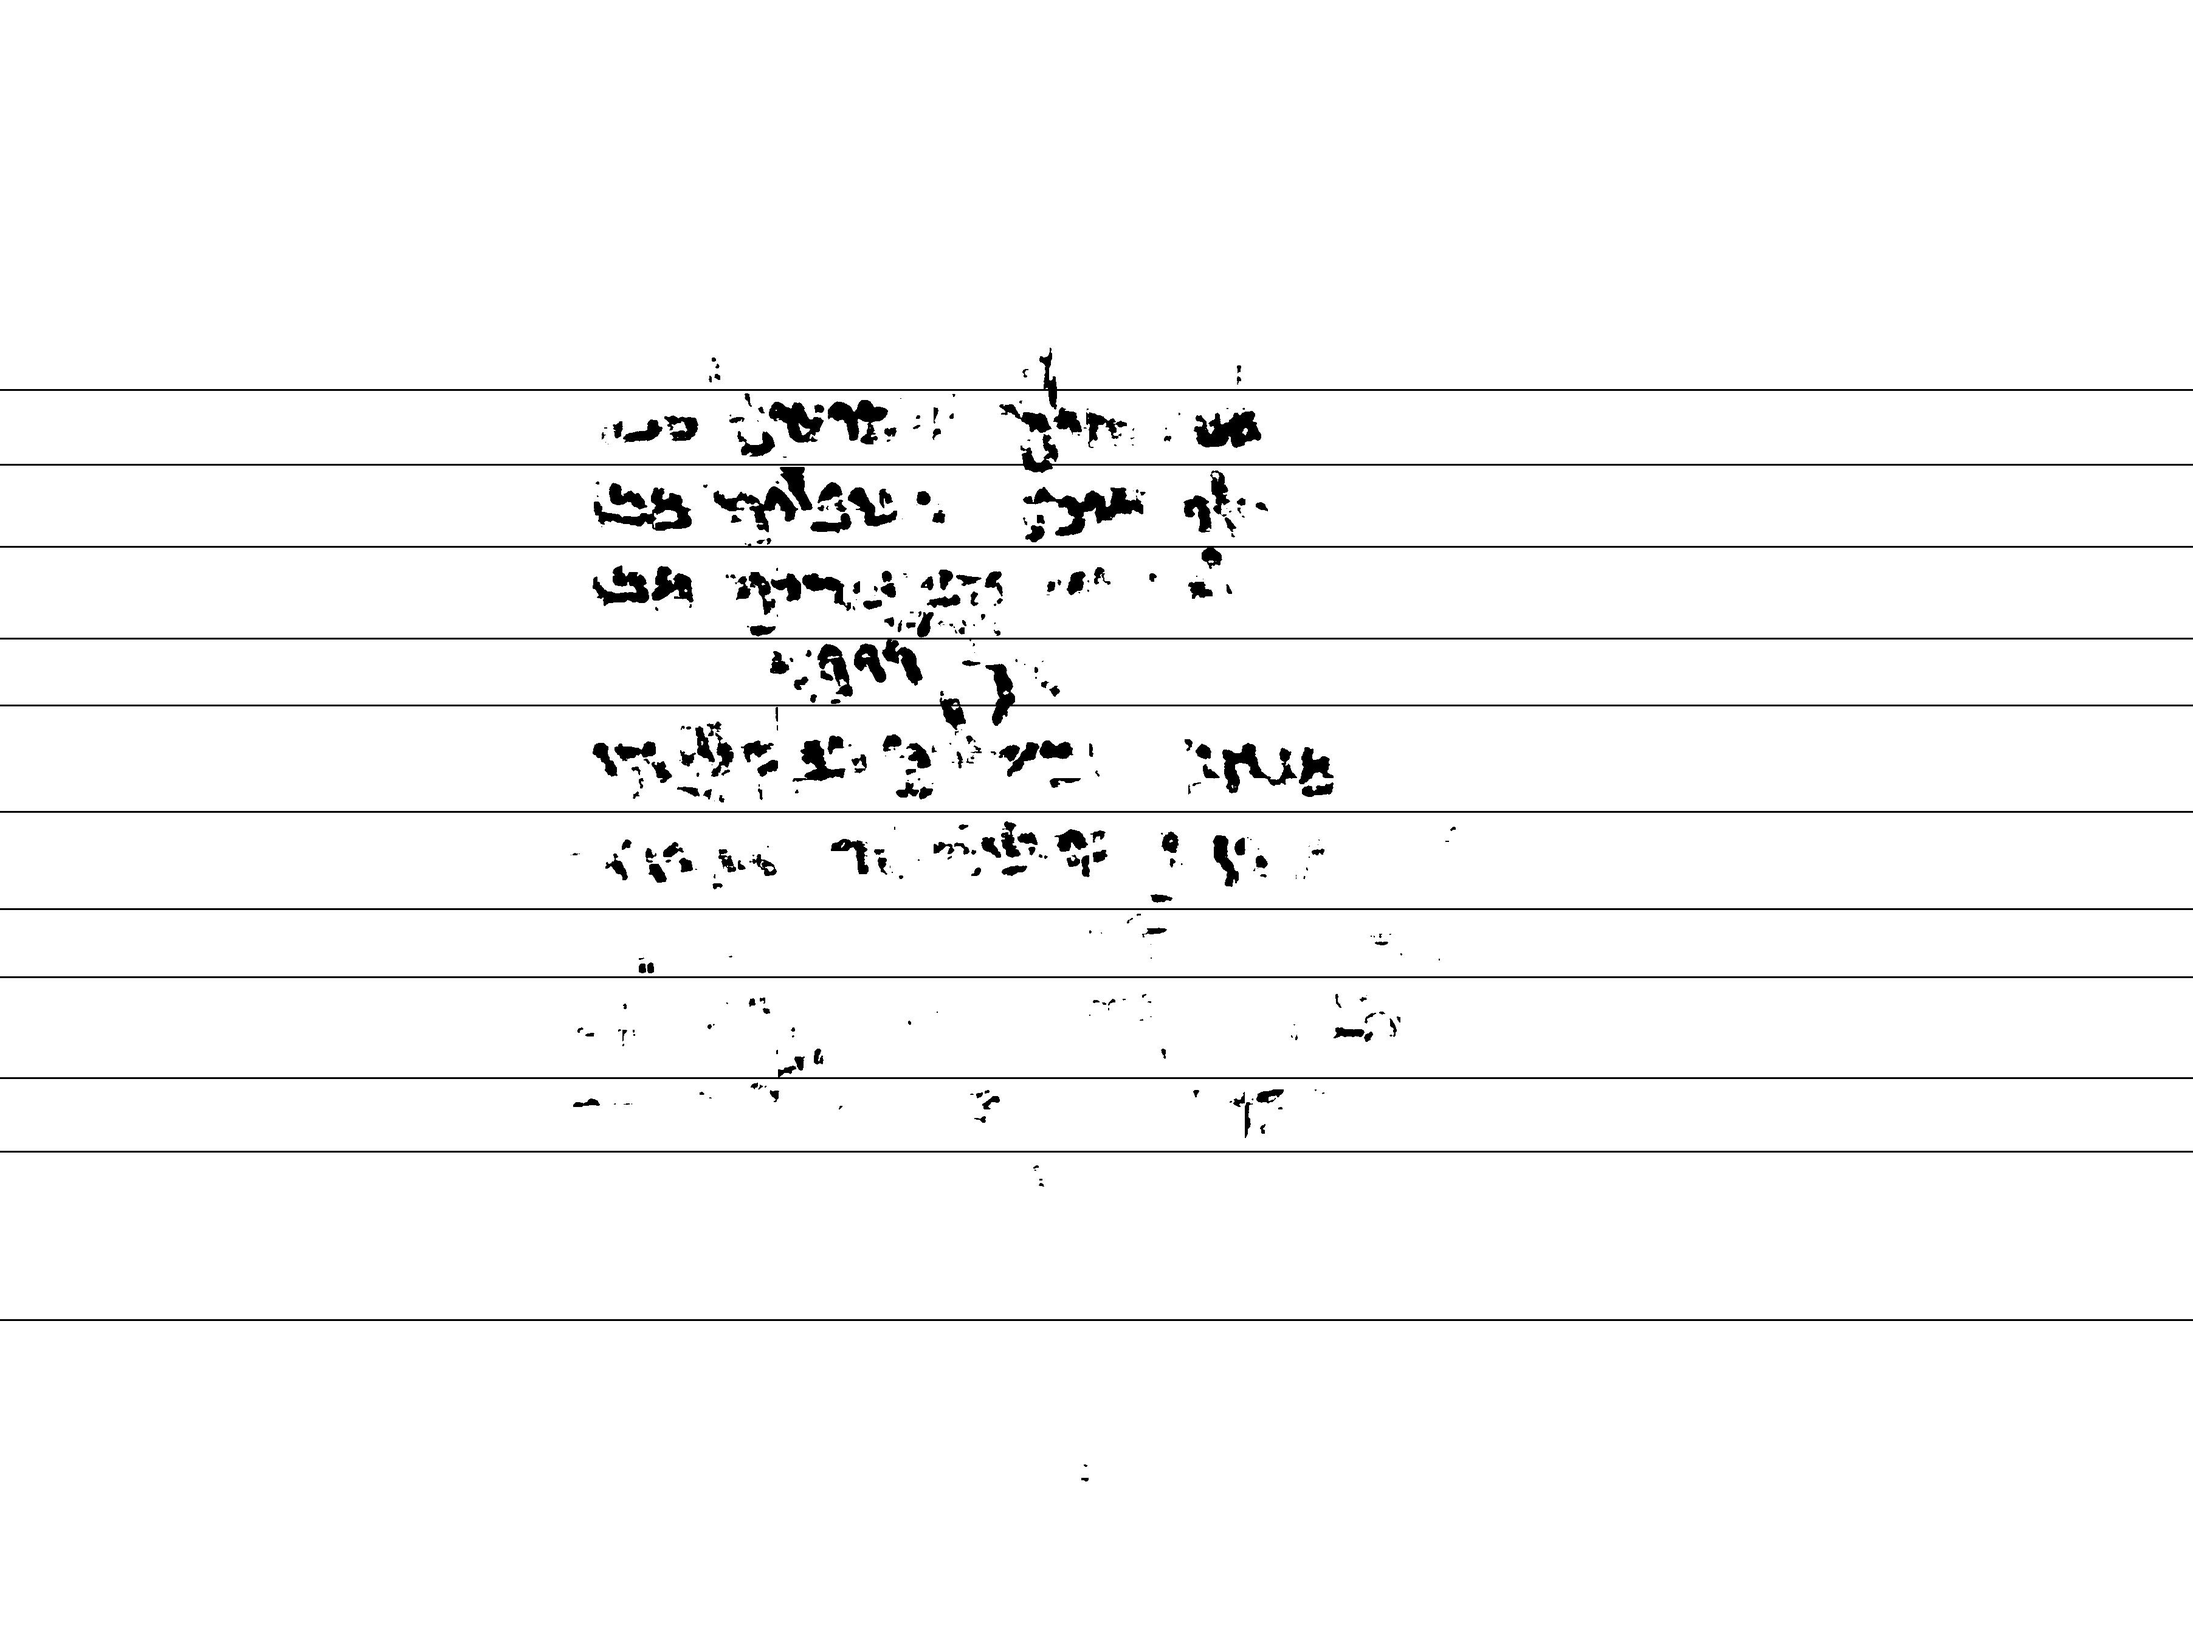
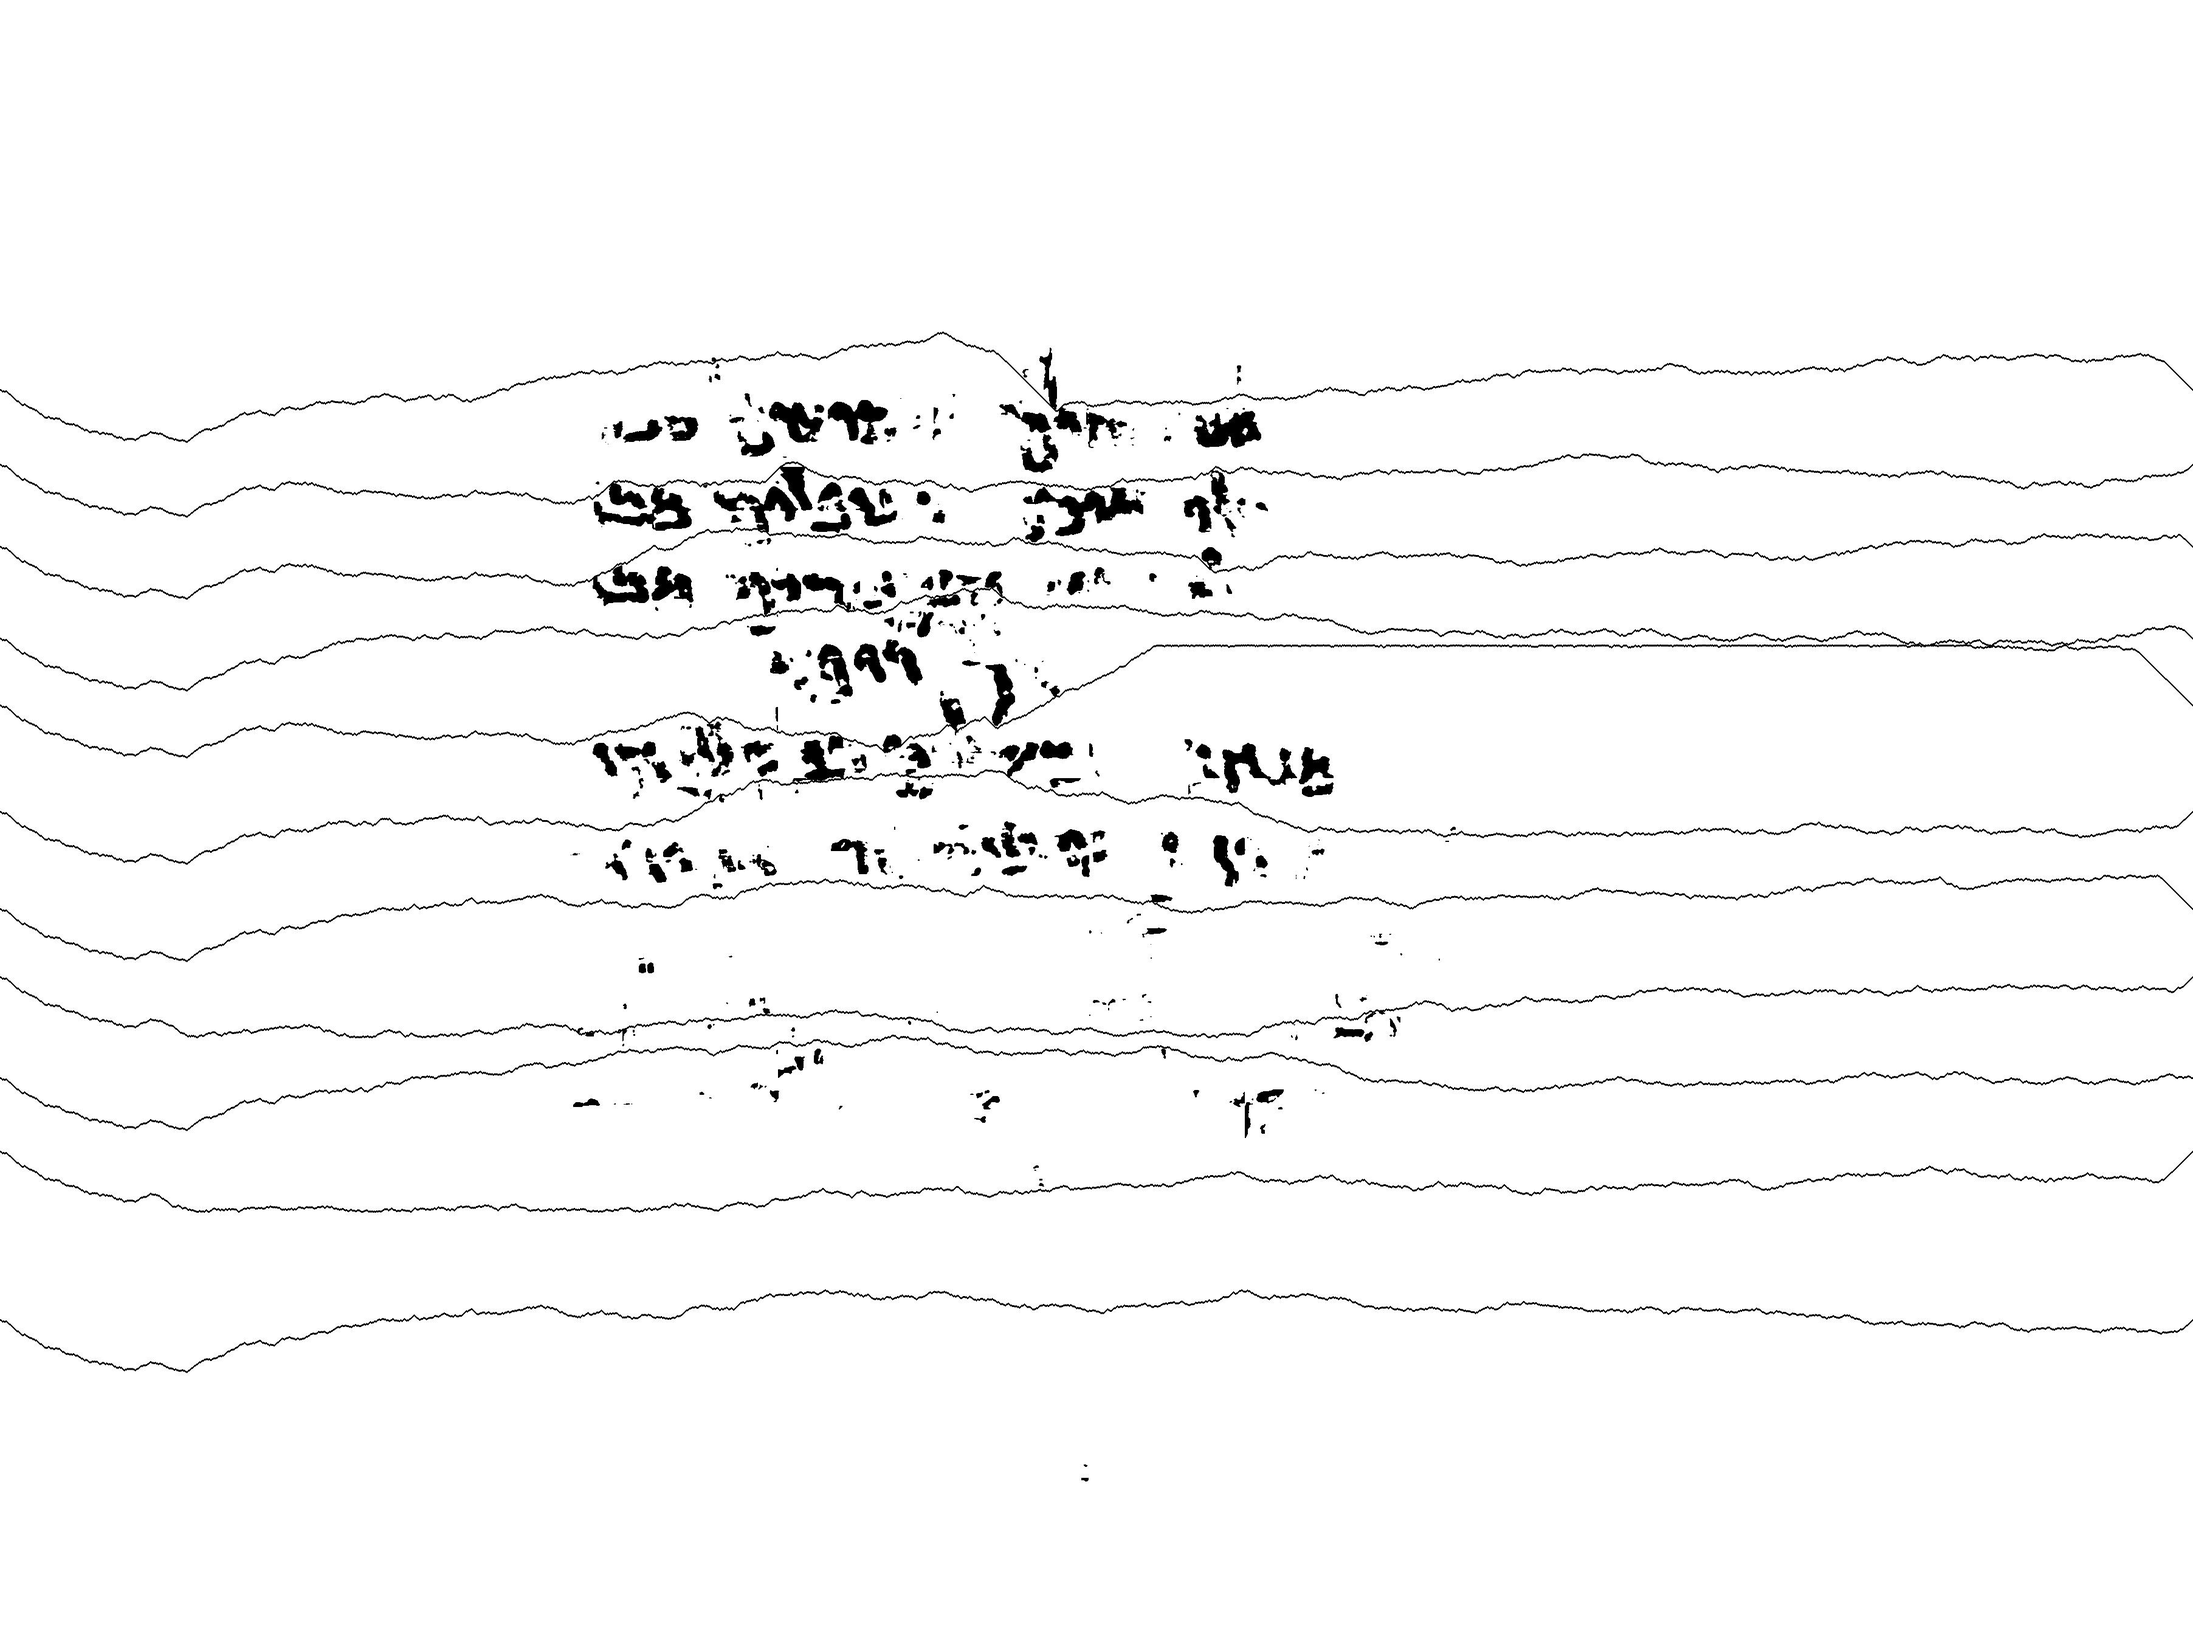
Path finding now works!!1!

Changed region(s): [[0.5588, 0.3725, 0.745, 0.4035], [0.8381, 0.3725, 0.9623, 0.4035]]

diff --git a/Preprocessor/pathing.py b/Preprocessor/pathing.py
@@ -97,21 +97,8 @@ def find_path(row, image):
     """
 
     print(f"Finding path for row {row}...")
-    limits = [50, 100]
-
-    # Start and goal coordinates
-    barriers = np.where(image[row, :] == 0)[0]
-    start_column = barriers[0] - limits[0] if len(barriers) > 0 and barriers[0] > limits[0] else 0
-
-    img_width = np.shape(image)[COLUMNS]-1
-    goal_column = barriers[-1] + limits[0] if len(barriers) > 1 and barriers[-1] + limits[0] < img_width else img_width
-
-    image = image[row-100:row+101, start_column:goal_column]
-    sub_shape = np.shape(image)
-
-    start = (int(sub_shape[0] / 2), 0)
-    goal = (int(sub_shape[0] / 2), sub_shape[1]-1)
-    print(start, goal)
+    start = (row, 0)
+    goal = (row, np.shape(image)[COLUMNS]-1)
 
     # Create starting state and add to queue
     state = State(start, None)
@@ -125,7 +112,7 @@ def find_path(row, image):
     # Loop until all options are used up
     while not queue.empty():
 
-        if len(visited) % 10 == 0 and len(visited) != 0:
+        if len(visited) % 1000 == 0 and len(visited) != 0:
             print(len(visited))
 
         # Get next state and add to visited set
@@ -147,14 +134,6 @@ def find_path(row, image):
                 new_state = State(neighbor, state, new_cost, priority)
                 queue.put(new_state)
 
-    image[path[:, 0], path[:, 1]] = 0
-    image[path[:, 0] - 1, path[:, 1]] = 0
-    image[path[:, 0] + 1, path[:, 1]] = 0
-
-    test_image = Image.fromarray(image).save(f"./results/fuck.jpg")
-
-    print(path)
-    exit(-1)
     return path
 
 

diff --git a/Preprocessor/line_segmenter.py b/Preprocessor/line_segmenter.py
@@ -70,9 +70,7 @@ if __name__ == '__main__':
         line_starts = find_line_starts(projection)
 
         # Generate segment lines per start position
-        segment_lines = [find_path(start, data) for start in line_starts[:1]]
-        print(segment_lines)
-        exit(-1)
+        segment_lines = [find_path(start, data) for start in line_starts]
 
         # Show projection
         plt.plot(projection)
